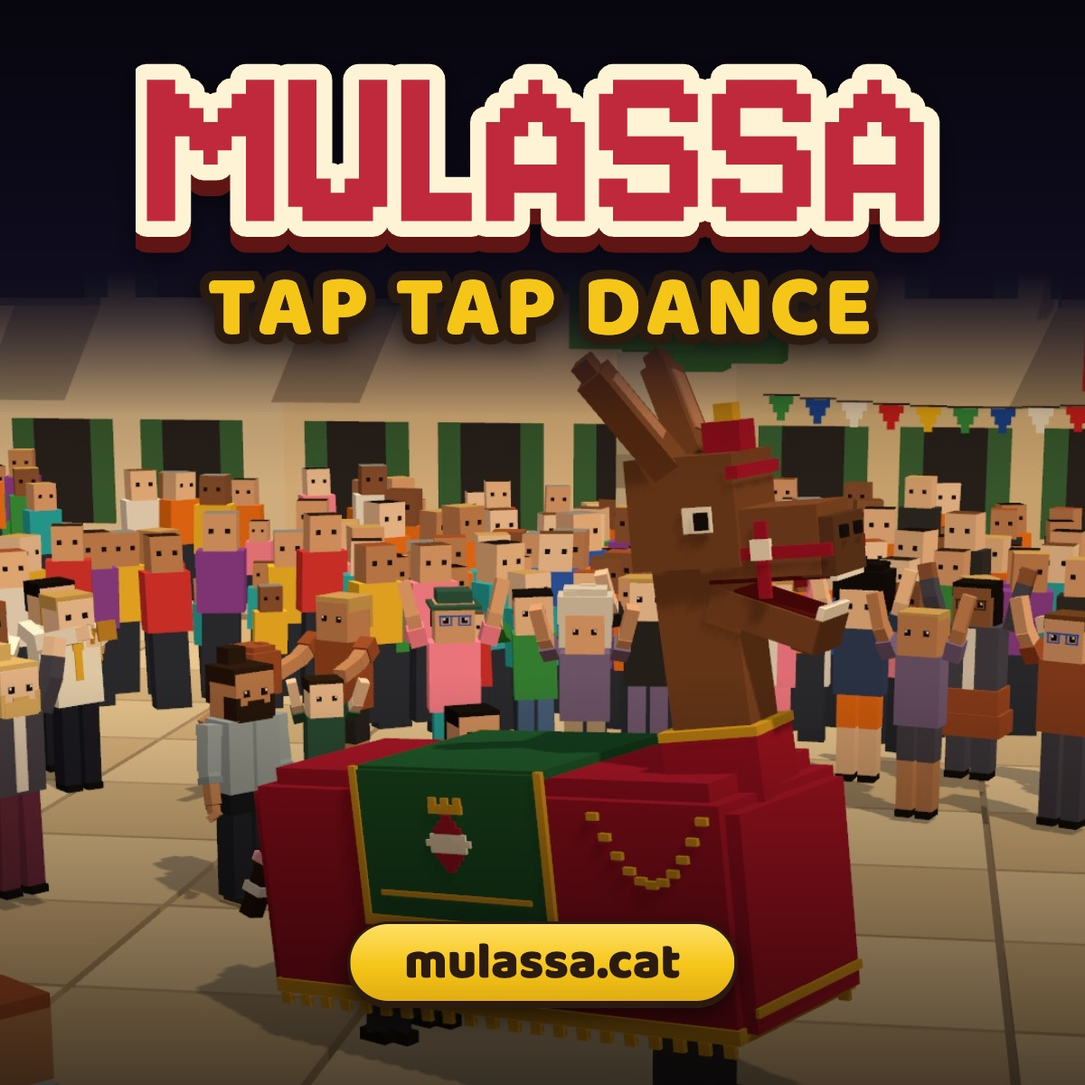
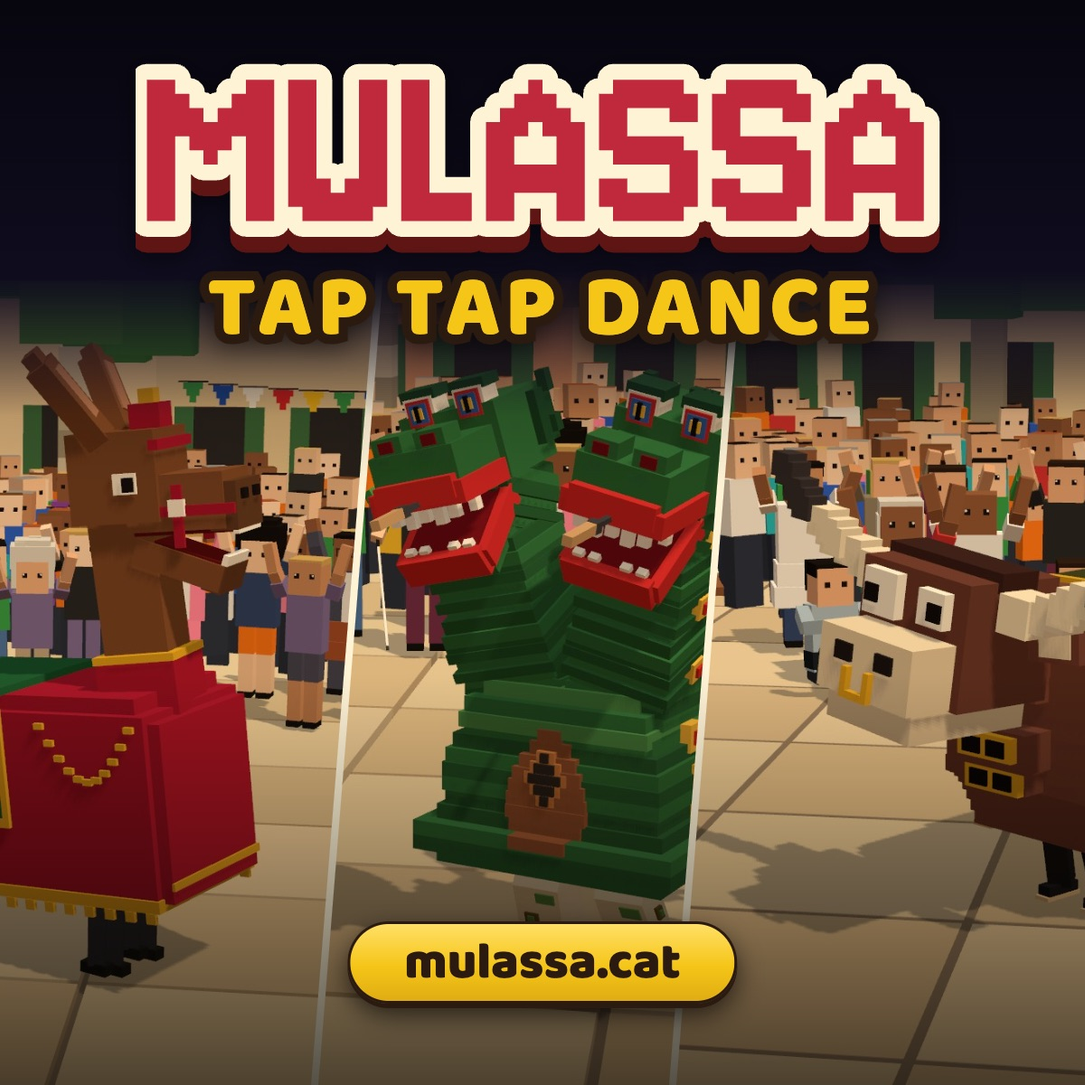
feat(seo): link previews with the three figures; the Bou in the site copy

diff --git a/index.html b/index.html
@@ -42,7 +42,7 @@ addEventListener('beforeinstallprompt', function (e) { window.__installPrompt = 
   window.__mulassaBoot = has.call(O, code) ? O[code] : null;
 })();
 </script>
-<script type="application/ld+json">{"@context":"https://schema.org","@graph":[{"@type":"WebSite","@id":"https://mulassa.cat/#site","name":"Mulassa Tap Tap Dance","url":"https://mulassa.cat/","inLanguage":"ca","publisher":{"@id":"https://mulassa.cat/#autor"}},{"@type":"Person","@id":"https://mulassa.cat/#autor","name":"Marc Güell Segarra","url":"https://ondori.dev","sameAs":["https://ondori.dev","https://github.com/mguellsegarra","https://github.com/mguellsegarra/mulassa-tap-tap-dance"],"contactPoint":{"@type":"ContactPoint","contactType":"general","email":"holi@mulassa.cat"}},{"@type":"VideoGame","name":"Mulassa Tap Tap Dance","url":"https://mulassa.cat/","description":"Fes ballar la Mulassa i el Drac de Valls al compàs de la música. Un joc de ritme gratuït que porta el bestiari festiu català al navegador.","inLanguage":"ca","genre":"Joc de ritme","applicationCategory":"GameApplication","operatingSystem":"Qualsevol navegador","isAccessibleForFree":true,"image":["https://mulassa.cat/og-1x1.jpg","https://mulassa.cat/og.jpg"],"author":{"@id":"https://mulassa.cat/#autor"},"isPartOf":{"@id":"https://mulassa.cat/#site"}}]}</script>
+<script type="application/ld+json">{"@context":"https://schema.org","@graph":[{"@type":"WebSite","@id":"https://mulassa.cat/#site","name":"Mulassa Tap Tap Dance","url":"https://mulassa.cat/","inLanguage":"ca","publisher":{"@id":"https://mulassa.cat/#autor"}},{"@type":"Person","@id":"https://mulassa.cat/#autor","name":"Marc Güell Segarra","url":"https://ondori.dev","sameAs":["https://ondori.dev","https://github.com/mguellsegarra","https://github.com/mguellsegarra/mulassa-tap-tap-dance"],"contactPoint":{"@type":"ContactPoint","contactType":"general","email":"holi@mulassa.cat"}},{"@type":"VideoGame","name":"Mulassa Tap Tap Dance","url":"https://mulassa.cat/","description":"Fes ballar la Mulassa, el Drac i el Bou de Valls al compàs de la música. Un joc de ritme gratuït que porta el bestiari festiu català al teu navegador.","inLanguage":"ca","genre":"Joc de ritme","applicationCategory":"GameApplication","operatingSystem":"Qualsevol navegador","isAccessibleForFree":true,"image":["https://mulassa.cat/og-1x1.jpg","https://mulassa.cat/og.jpg"],"author":{"@id":"https://mulassa.cat/#autor"},"isPartOf":{"@id":"https://mulassa.cat/#site"}}]}</script>
 <meta name="viewport" content="width=device-width, initial-scale=1, maximum-scale=1, user-scalable=no, viewport-fit=cover">
 <meta name="theme-color" content="#140c07">
 <meta name="apple-mobile-web-app-capable" content="yes">
@@ -53,26 +53,26 @@ addEventListener('beforeinstallprompt', function (e) { window.__installPrompt = 
 <link rel="icon" type="image/svg+xml" href="/favicon.svg">
 <link rel="icon" type="image/png" sizes="32x32" href="/favicon-32.png">
 <link rel="apple-touch-icon" href="/apple-touch-icon.png">
-<title>Mulassa Tap Tap Dance | La Mulassa i el Drac de Valls</title>
-<meta name="description" content="Fes ballar la Mulassa i el Drac de Valls al compàs de la música. Un joc de ritme gratuït que porta el bestiari festiu català al navegador.">
+<title>Mulassa Tap Tap Dance | La Mulassa, el Drac i el Bou de Valls</title>
+<meta name="description" content="Fes ballar la Mulassa, el Drac i el Bou de Valls al compàs de la música. Un joc de ritme gratuït que porta el bestiari festiu català al teu navegador.">
 <!-- Link previews (static, absolute URLs): public/og.jpg, 1200×630, made once from the game -->
 <meta name="robots" content="max-image-preview:large">
 <meta property="og:type" content="website">
 <meta property="og:site_name" content="mulassa.cat">
-<meta property="og:title" content="Mulassa Tap Tap Dance · Dos botons, segueix el ritme">
-<meta property="og:description" content="Fes ballar la Mulassa i el Drac de Valls al compàs de la música. Un joc de ritme gratuït que porta el bestiari festiu català al navegador.">
+<meta property="og:title" content="Mulassa Tap Tap Dance · Mulassa, Drac i Bou">
+<meta property="og:description" content="Fes ballar la Mulassa, el Drac i el Bou de Valls al compàs de la música. Un joc de ritme gratuït que porta el bestiari festiu català al teu navegador.">
 <meta property="og:url" content="https://mulassa.cat/">
 <meta property="og:image" content="https://mulassa.cat/og.jpg">
 <meta property="og:image:type" content="image/jpeg">
 <meta property="og:image:width" content="1200">
 <meta property="og:image:height" content="630">
-<meta property="og:image:alt" content="La Mulassa i el Drac de Valls amb el logotip de Mulassa Tap Tap Dance.">
+<meta property="og:image:alt" content="La Mulassa, el Drac i el Bou de Valls amb el logotip de Mulassa Tap Tap Dance.">
 <meta property="og:locale" content="ca_ES">
 <meta name="twitter:card" content="summary_large_image">
-<meta name="twitter:title" content="Mulassa Tap Tap Dance · Dos botons, segueix el ritme">
-<meta name="twitter:description" content="Fes ballar la Mulassa i el Drac de Valls al compàs de la música. Un joc de ritme gratuït que porta el bestiari festiu català al navegador.">
+<meta name="twitter:title" content="Mulassa Tap Tap Dance · Mulassa, Drac i Bou">
+<meta name="twitter:description" content="Fes ballar la Mulassa, el Drac i el Bou de Valls al compàs de la música. Un joc de ritme gratuït que porta el bestiari festiu català al teu navegador.">
 <meta name="twitter:image" content="https://mulassa.cat/og.jpg">
-<meta name="twitter:image:alt" content="La Mulassa i el Drac de Valls amb el logotip de Mulassa Tap Tap Dance.">
+<meta name="twitter:image:alt" content="La Mulassa, el Drac i el Bou de Valls amb el logotip de Mulassa Tap Tap Dance.">
 <link rel="preload" href="/fonts/baloo-2-latin.woff2" as="font" type="font/woff2" crossorigin>
 <link rel="preload" href="/fonts/jersey-10-latin.woff2" as="font" type="font/woff2" crossorigin>
 <style>
@@ -208,7 +208,7 @@ addEventListener('beforeinstallprompt', function (e) { window.__installPrompt = 
 <link rel="stylesheet" href="/src/styles/profile.css">
 </head>
 <body aria-busy="true">
-<div class="sr-only"><h1>Mulassa Tap Tap Dance</h1><p>Joc de ritme gratuït en català per fer ballar figures del bestiari festiu dels Països Catalans, com la Mulassa i el Drac de Valls, tocant dos botons al compàs de la música. Projecte de codi obert. <a href="/projecte/" tabindex="-1">Sobre el projecte</a>. Idea i desenvolupament: Marc Güell Segarra, <a tabindex="-1" href="https://ondori.dev">ondori.dev</a>. <a tabindex="-1" href="/projecte/#autoria-i-credits">Crèdits</a>. Contacte: <a tabindex="-1" href="mailto:holi@mulassa.cat">holi@mulassa.cat</a>.</p></div>
+<div class="sr-only"><h1>Mulassa Tap Tap Dance</h1><p>Joc de ritme gratuït en català per fer ballar figures del bestiari festiu dels Països Catalans, com la Mulassa, el Drac i el Bou de Valls, tocant dos botons al compàs de la música. Projecte de codi obert. <a href="/projecte/" tabindex="-1">Sobre el projecte</a>. Idea i desenvolupament: Marc Güell Segarra, <a tabindex="-1" href="https://ondori.dev">ondori.dev</a>. <a tabindex="-1" href="/projecte/#autoria-i-credits">Crèdits</a>. Contacte: <a tabindex="-1" href="mailto:holi@mulassa.cat">holi@mulassa.cat</a>.</p></div>
 <div id="loader" class="page" role="status" aria-live="polite"><div class="loader-box"><span class="mula-spinner"><div class="mula-load" aria-hidden="true"><div class="ml-fig"><div class="ml-ground"><svg viewBox="0 0 202 18"><path d="M0 4H202" fill="none" stroke="#866846" stroke-width="1.2" opacity=".6"/></svg><div class="ml-road"><svg viewBox="0 0 202 18"><g fill="none" stroke="#a78355" stroke-width="1.2" stroke-linecap="round" opacity=".45"><path d="M0 10H270" stroke-dasharray="18 12 4 12 6 12"/><path d="M30 4l3-3h4l3 3m54 0l3-3h4l3 3m54 0l3-3h4l3 3m54 0l3-3h4l3 3"/></g></svg></div></div><div class="ml-dust" style="animation-delay:0s"><svg viewBox="0 0 220 168"><g transform="translate(43 145)"><path d="M-3 0c-5 0-8-3-7-6 1-3 4-4 6-3 0-6 7-7 9-3 5-2 9 1 8 5 3 0 4 3 2 5C10 1 3 1-3 0z" fill="#9b7951"/><path d="M-7-6q2-5 6-2m3-5q4-2 6 2" fill="none" stroke="#c6a16b" stroke-width="1.2" stroke-linecap="round" opacity=".5"/><path d="M-13-2l-2-1m-1-5-1-1" fill="none" stroke="#a78355" stroke-width="1.6" stroke-linecap="round"/></g></svg></div><div class="ml-dust" style="animation-delay:-0.24s"><svg viewBox="0 0 220 168"><g transform="translate(43 145)"><path d="M-3 0c-5 0-8-3-7-6 1-3 4-4 6-3 0-6 7-7 9-3 5-2 9 1 8 5 3 0 4 3 2 5C10 1 3 1-3 0z" fill="#9b7951"/><path d="M-7-6q2-5 6-2m3-5q4-2 6 2" fill="none" stroke="#c6a16b" stroke-width="1.2" stroke-linecap="round" opacity=".5"/><path d="M-13-2l-2-1m-1-5-1-1" fill="none" stroke="#a78355" stroke-width="1.6" stroke-linecap="round"/></g></svg></div><svg viewBox="0 0 220 168"><ellipse cx="100" cy="147" rx="72" ry="4.5" fill="#000" opacity=".35"/></svg><div class="ml-leg" style="--step:0s;transform-origin:27.273% 67.262%"><svg viewBox="0 0 220 168"><g transform="translate(60 113)"><rect x="-3.5" y="0" width="7" height="18" rx="3" fill="#36303a"/></g></svg><div class="ml-shin" style="transform-origin:27.273% 76.786%"><svg viewBox="0 0 220 168"><g transform="translate(60 129)"><rect x="-3.5" y="-2" width="7" height="17" rx="2" fill="#36303a"/><rect x="-3.5" y="10" width="7" height="4" fill="#aaa18d"/><path d="M-4 13h7l6 2q2 1 1 4H-4z" fill="#241b1c"/><path d="M-4 18h14" stroke="#aaa18d" stroke-width="1.5" stroke-linecap="round"/></g></svg></div></div><div class="ml-leg" style="--step:-0.24s;transform-origin:31.818% 67.262%"><svg viewBox="0 0 220 168"><g transform="translate(70 113)"><rect x="-3.5" y="0" width="7" height="18" rx="3" fill="#36303a"/></g></svg><div class="ml-shin" style="transform-origin:31.818% 76.786%"><svg viewBox="0 0 220 168"><g transform="translate(70 129)"><rect x="-3.5" y="-2" width="7" height="17" rx="2" fill="#36303a"/><rect x="-3.5" y="10" width="7" height="4" fill="#aaa18d"/><path d="M-4 13h7l6 2q2 1 1 4H-4z" fill="#241b1c"/><path d="M-4 18h14" stroke="#aaa18d" stroke-width="1.5" stroke-linecap="round"/></g></svg></div></div><div class="ml-leg" style="--step:-0.04s;transform-origin:61.818% 67.262%"><svg viewBox="0 0 220 168"><g transform="translate(136 113)"><rect x="-3.5" y="0" width="7" height="18" rx="3" fill="#36303a"/></g></svg><div class="ml-shin" style="transform-origin:61.818% 76.786%"><svg viewBox="0 0 220 168"><g transform="translate(136 129)"><rect x="-3.5" y="-2" width="7" height="17" rx="2" fill="#36303a"/><rect x="-3.5" y="10" width="7" height="4" fill="#aaa18d"/><path d="M-4 13h7l6 2q2 1 1 4H-4z" fill="#241b1c"/><path d="M-4 18h14" stroke="#aaa18d" stroke-width="1.5" stroke-linecap="round"/></g></svg></div></div><div class="ml-leg" style="--step:-0.28s;transform-origin:66.364% 67.262%"><svg viewBox="0 0 220 168"><g transform="translate(146 113)"><rect x="-3.5" y="0" width="7" height="18" rx="3" fill="#36303a"/></g></svg><div class="ml-shin" style="transform-origin:66.364% 76.786%"><svg viewBox="0 0 220 168"><g transform="translate(146 129)"><rect x="-3.5" y="-2" width="7" height="17" rx="2" fill="#36303a"/><rect x="-3.5" y="10" width="7" height="4" fill="#aaa18d"/><path d="M-4 13h7l6 2q2 1 1 4H-4z" fill="#241b1c"/><path d="M-4 18h14" stroke="#aaa18d" stroke-width="1.5" stroke-linecap="round"/></g></svg></div></div><div class="ml-leg" style="--step:-0.02s;transform-origin:24.091% 67.262%"><svg viewBox="0 0 220 168"><g transform="translate(53 113)"><rect x="-3.5" y="0" width="7" height="18" rx="3" fill="#51454e"/></g></svg><div class="ml-shin" style="transform-origin:24.091% 76.786%"><svg viewBox="0 0 220 168"><g transform="translate(53 129)"><rect x="-3.5" y="-2" width="7" height="17" rx="2" fill="#51454e"/><rect x="-3.5" y="10" width="7" height="4" fill="#f4efe4"/><path d="M-4 13h7l6 2q2 1 1 4H-4z" fill="#241b1c"/><path d="M-4 18h14" stroke="#f4efe4" stroke-width="1.5" stroke-linecap="round"/></g></svg></div></div><div class="ml-leg" style="--step:-0.26s;transform-origin:29.545% 67.262%"><svg viewBox="0 0 220 168"><g transform="translate(65 113)"><rect x="-3.5" y="0" width="7" height="18" rx="3" fill="#51454e"/></g></svg><div class="ml-shin" style="transform-origin:29.545% 76.786%"><svg viewBox="0 0 220 168"><g transform="translate(65 129)"><rect x="-3.5" y="-2" width="7" height="17" rx="2" fill="#51454e"/><rect x="-3.5" y="10" width="7" height="4" fill="#f4efe4"/><path d="M-4 13h7l6 2q2 1 1 4H-4z" fill="#241b1c"/><path d="M-4 18h14" stroke="#f4efe4" stroke-width="1.5" stroke-linecap="round"/></g></svg></div></div><div class="ml-leg" style="--step:-0.06s;transform-origin:58.182% 67.262%"><svg viewBox="0 0 220 168"><g transform="translate(128 113)"><rect x="-3.5" y="0" width="7" height="18" rx="3" fill="#51454e"/></g></svg><div class="ml-shin" style="transform-origin:58.182% 76.786%"><svg viewBox="0 0 220 168"><g transform="translate(128 129)"><rect x="-3.5" y="-2" width="7" height="17" rx="2" fill="#51454e"/><rect x="-3.5" y="10" width="7" height="4" fill="#f4efe4"/><path d="M-4 13h7l6 2q2 1 1 4H-4z" fill="#241b1c"/><path d="M-4 18h14" stroke="#f4efe4" stroke-width="1.5" stroke-linecap="round"/></g></svg></div></div><div class="ml-leg" style="--step:-0.3s;transform-origin:63.636% 67.262%"><svg viewBox="0 0 220 168"><g transform="translate(140 113)"><rect x="-3.5" y="0" width="7" height="18" rx="3" fill="#51454e"/></g></svg><div class="ml-shin" style="transform-origin:63.636% 76.786%"><svg viewBox="0 0 220 168"><g transform="translate(140 129)"><rect x="-3.5" y="-2" width="7" height="17" rx="2" fill="#51454e"/><rect x="-3.5" y="10" width="7" height="4" fill="#f4efe4"/><path d="M-4 13h7l6 2q2 1 1 4H-4z" fill="#241b1c"/><path d="M-4 18h14" stroke="#f4efe4" stroke-width="1.5" stroke-linecap="round"/></g></svg></div></div><div class="ml-bob"><div class="ml-tail"><svg viewBox="0 0 220 168"><path d="M41 74q-9 12-7 36l7 1q-1-20 6-34z" fill="#4e2e1a"/><path d="M33 86h10M33 99h10" stroke="#f4efe4" stroke-width="3"/><path d="M33 92.5h10" stroke="#ffb3c7" stroke-width="3"/></svg></div><div class="ml-neck"><div class="ml-nod"><svg viewBox="0 0 220 168"><path d="M139 74 150 33q3-8 12-6l3 3-7 44z" fill="#7a4a2b"/><path d="M145 68 152 34" stroke="#4e2e1a" stroke-width="4" stroke-linecap="round"/></svg><div class="ml-sweat"><svg viewBox="0 0 220 168"><g fill="#fff3d6"><path d="M133 28q-7-3-7 1t7-1z"/><path d="M132 19q-5-5-7-2t7 2z"/></g></svg></div><div class="ml-ear ml-e2"><svg viewBox="0 0 220 168"><path d="M156 18.5Q154.6 5 161.4-1.6 165 5.5 161.2 18z" fill="#4e2e1a"/></svg></div><svg viewBox="0 0 220 168"><path d="M159 38 187 42.5 160 43.5z" fill="#5a1010"/><path d="M164 43.2Q172 41.2 182 42.3L181 42.9Q172 43 164 43.4z" fill="#e58aa6"/></svg><div class="ml-jaw"><svg viewBox="0 0 220 168"><path d="M158 37.5 186 42q2 5-3 6.5l-24-4z" fill="#7a4a2b"/><path d="M178 42.5l8 1.2q1 3.6-3 4.6l-5-.8z" fill="#5d3a24"/><path d="M178.5 42.6l7 1" stroke="#f4efe4" stroke-width="1.4"/></svg></div><svg viewBox="0 0 220 168"><circle cx="158" cy="26" r="11" fill="#7a4a2b"/><path d="M152 19 183 28q7 2 6.5 9l-1 4-31-4z" fill="#7a4a2b"/><path d="M178 29.5q10 2 10.5 7.5l-1 4-9.5-1.5z" fill="#5d3a24"/><path d="M178 40.4l9 1.4" stroke="#f4efe4" stroke-width="1.4"/><circle cx="185" cy="33" r="1.3" fill="#2a1a10"/><circle cx="160" cy="24.5" r="4.2" fill="#f4efe4"/><circle cx="162" cy="25" r="2.2" fill="#2a1a10"/><g fill="none" stroke="#c0912e" stroke-width="1.4" stroke-linecap="round" stroke-linejoin="round"><path d="M151.5 19.5C156 15.8 162 15.6 165.6 18.9M151.5 19.5 154.6 35.8 169.8 37.8 175.8 27.2"/></g><circle cx="151.5" cy="19.5" r="2.3" fill="#c8283a"/><circle cx="151.5" cy="19.5" r="0.8" fill="#f2c14e"/><circle cx="175.8" cy="27.2" r="1.3" fill="#c8283a"/><g class="ml-sad"><path d="M156.3 25a3.7 3.7 0 0 1 7.4 0z" fill="#7a4a2b"/><path d="M156 23.6l7.5-1.4" stroke="#2a1a10" stroke-width="1.1" stroke-linecap="round"/><path class="ml-tear" d="M161 28.5q-8 7 0 11 8-4 0-11z" fill="#9bdcff"/><path class="ml-tear ml-tear-late" d="M161 28.5q-8 7 0 11 8-4 0-11z" fill="#9bdcff"/></g></svg><div class="ml-ear"><svg viewBox="0 0 220 168"><path d="M148.5 18.5Q140 8 142.6-2.2 150 2 153.5 16z" fill="#7a4a2b"/><path d="M148.6 14.6Q144.2 8 144.6 1.6 148.6 5 150.6 13z" fill="#b07a5a"/></svg></div><div class="ml-clac"><svg viewBox="0 0 220 168"><g stroke="#f5c518" stroke-width="2" stroke-linecap="round"><path d="M192 38l5-3M193 45h6M191 51l4 3"/></g></svg></div></div></div><svg viewBox="0 0 220 168"><rect x="40" y="66" width="118" height="52" rx="7" fill="#a3182f"/><path d="M40 103h118v8q0 7-7 7H47q-7 0-7-7z" fill="#7c1024"/><path d="M46 68.5h106" stroke="#c43752" stroke-width="2" stroke-linecap="round"/><path d="M137 64h25v10q0 3-3 3h-19q-3 0-3-3z" fill="#a3182f"/><rect x="136" y="61" width="27" height="4" rx="1.5" fill="#d9a521"/><path d="M155 72q-10 26-24 2" fill="none" stroke="#d9a521" stroke-width="2.4" stroke-dasharray=".1 3.6" stroke-linecap="round"/><rect x="76" y="61" width="52" height="45" rx="3" fill="#1f5c33" stroke="#d9a521" stroke-width="2.5"/><path d="M83 97h38" stroke="#d9a521" stroke-width="1.5"/><path d="M96 70.5h16v3H96zM96 70.5v-3h3v3M102.5 70.5v-3h3v3M109 70.5v-3h3v3" fill="#d9a521" stroke="#d9a521" stroke-width=".6"/><path d="M104 75 113 83 104 91 95 83z" fill="#a3182f" stroke="#2a1a10" stroke-width=".8"/><path d="M97.3 81h13.4l2.2 2-2.2 2H97.3l-2.2-2z" fill="#f4efe4"/><rect x="38" y="116" width="122" height="5" rx="2" fill="#d9a521"/><path d="M41 123.5h117" stroke="#d9a521" stroke-width="5" stroke-dasharray="2 2.4"/></svg></div></div></div></span><span id="loader-text"><!-- i18n:boot:label -->Avisant la brigada…<!-- i18n:boot:end --></span></div></div>
 <script id="loader-first-joke">/* The first loading line, picked before the first paint: one not seen yet on this device (the same memory and list as src/ui/loader.js jokes(); both come from the boot catalogue through tools/deploy/gen-boot.mjs), so no visit always opens the same way. */
 (function () { var B = window.__mulassaBoot, L = (B && B.jokes) || /* i18n:boot:jokes */["Avisant la brigada…","Esperant que obri el Maitanca…","Trucant a la grua…","Validant el tiquet de la zona blava…","Encenent el foc amb redoltes…","Remenant la salsa de calçots…","Pujant al campanar a mirar la plaça…","Esquivant les caques de gos…","Planxant les estelades…","Posant una espelmeta a la Mare de Déu de la Candela…","Posant-li les arracades a l’Alcaldessa…","Apartant les paneroles…","Esperant l’entrepà del Safareig…","Afinant-me els cascavells…","Despertant el Drac…","Aguantant les façanes del Barri Antic perquè no caiguin…","Demanant al Basilisc que no em miri així…","Comptant els dies que falten per a les Decennals…","Encarregant un ram de flors a l’Heura per conquistar el Bou…","Filtrant a El Vallenc que l’Àliga i el Drac festegen…"]/* i18n:boot:end */, k = 'loader-jokes-seen', s = [], t = document.getElementById('loader-text');

diff --git a/tools/social/og/build.py b/tools/social/og/build.py
@@ -1,4 +1,5 @@
-# Link-preview images (og:image) of the mini-games' pages: public/og-jocs.jpg (/jocs/) and public/og-pop.jpg (/pop/).
+# Link-preview images (og:image): the game's, public/og.jpg (the three figures, 16/11/2026), and the mini-games' pages'
+# public/og-jocs.jpg (/jocs/) and public/og-pop.jpg (/pop/).
 # One template (the owner's pick, 11 Nov 2026): the game's own art full bleed, the MULASSA lettering big on top with the page's
 # word under it (GAMES / POP, as the pages' logos), the gold «mulassa.cat» pill at the foot. No other text: the page's
 # og:title / og:description carry the words. A new game's page = one more entry in PAGES.
@@ -19,6 +20,8 @@ body{{position:relative;font-family:'Baloo 2',system-ui,sans-serif}}
 .bg{{position:absolute;inset:0;background-size:cover}}
 .split .a{{clip-path:polygon(0 0,58% 0,42% 100%,0 100%)}}.split .b{{clip-path:polygon(58% 0,100% 0,100% 100%,42% 100%)}}
 .cut{{position:absolute;inset:0;background:linear-gradient(105deg,transparent 49.6%,#fff3d6 49.6%,#fff3d6 50.4%,transparent 50.4%)}}
+.tri .a{{clip-path:polygon(0 0,37% 0,29% 100%,0 100%)}}.tri .b{{clip-path:polygon(37% 0,70% 0,62% 100%,29% 100%)}}.tri .c{{clip-path:polygon(70% 0,100% 0,100% 100%,62% 100%)}}
+.tri .bg{{background-repeat:no-repeat}}
 .shade{{position:absolute;inset:0;background:linear-gradient(#000a,#0000 45%,#0000 62%,#000a)}}
 .logo{{position:absolute;top:34px;left:0;right:0;display:flex;flex-direction:column;align-items:center}}
 .logo svg{{display:block;width:520px;height:auto;filter:drop-shadow(0 6px 14px #0008)}}
@@ -30,14 +33,22 @@ body{{position:relative;font-family:'Baloo 2',system-ui,sans-serif}}
 # the pages' own lettering (jocs/index.html, pop/index.html)
 LOGO = """<svg viewBox="0 -4 308.6 80" text-anchor="middle" stroke-linejoin="round"><g font-family="'Jersey 10'" font-size="100" stroke-width="12"><text x="154.3" y="66.6" textLength="300" lengthAdjust="spacingAndGlyphs" fill="#5e1514" stroke="#5e1514" style="paint-order:stroke">MULASSA</text><text x="154.3" y="60.6" textLength="300" lengthAdjust="spacingAndGlyphs" fill="#c0283c" stroke="#fff3d6" style="paint-order:stroke">MULASSA</text></g></svg>"""
 
+# the cream lines between the slices (the same cut as og-jocs.jpg's, twice)
+CUT2 = '<svg style="position:absolute;inset:0;width:100%;height:100%" viewBox="0 0 100 100" preserveAspectRatio="none"><g stroke="#fff3d6" stroke-width="8" vector-effect="non-scaling-stroke"><line x1="37" y1="0" x2="29" y2="100" vector-effect="non-scaling-stroke"/><line x1="70" y1="0" x2="62" y2="100" vector-effect="non-scaling-stroke"/></g></svg>'
+def tri(size, xs, ys):  # the three figures' share photos (public/share/), each on its own slice; xs, ys: each photo's top left
+    # (a photo set lower leaves the night sky's colour above it, under the logo)
+    figs = ['mulassa-valls', 'drac-valls', 'bou-tradicional-valls']
+    return '<div class="tri">' + ''.join(f'<div class="bg {k}" style="background:#15112a url({P}/share/{f}.jpg) no-repeat {x}px {y}px/auto {size}px"></div>'
+                                         for k, f, x, y in zip('abc', figs, xs, ys)) + '</div>' + CUT2
 PAGES = {  # name → (art, word): the art is the games menu's own stills (public/jocs/menu/)
+    'og': (tri(760, (-393, 65, 605), (0, 77, 0)), 'TAP TAP DANCE'),  # each face in its slice's middle, the Drac's under the logo
     'og-jocs': (f"""<div class="split"><div class="bg a" style="background-image:url({P}/jocs/menu/video/tap.jpg);background-position:30% 60%"></div><div class="bg b" style="background-image:url({P}/jocs/menu/video/pop.jpg);background-position:85% 50%"></div></div><div class="cut"></div>""", 'GAMES'),
     'og-pop': (f"""<div class="bg" style="background-image:url({P}/jocs/menu/hero/pop.jpg);background-position:70% 50%"></div>""", 'POP'),
 }
 # Google's result thumbnail is square, cut from the middle of og:image: each page also names a 1200×1200 one in its JSON-LD
-# image (tap: the main game, whose 1200×630 og.jpg stays the one-off capture)
+# image
 SQUARE = {
-    'og-1x1': (f"""<div class="bg" style="background:#15112a url({P}/share/mulassa-valls.jpg) no-repeat 40% 300px/auto 1100px"></div><div class="bg" style="background:linear-gradient(#15112a 300px,#15112a00 460px)"></div>""", 'TAP TAP DANCE'),  # the Mulassa under the logo, not behind it
+    'og-1x1': (tri(900, (-503, -35, 531), (310, 300, 300)) + '<div class="bg" style="background:linear-gradient(#15112a 300px,#15112a00 460px)"></div>', 'TAP TAP DANCE'),  # under the logo, not behind it
     'og-jocs-1x1': PAGES['og-jocs'],
     'og-pop-1x1': (f"""<div class="bg" style="background-image:url({P}/jocs/menu/hero/pop.jpg);background-position:48% 50%"></div>""", 'POP'),
 }
@@ -58,6 +69,6 @@ with tempfile.TemporaryDirectory() as profile:
         # headless: never a window over the owner's (AGENTS.md); the fonts load from files, the budget lets them settle
         subprocess.run([CHROME, '--headless=new', '--hide-scrollbars', f'--user-data-dir={profile}', f'--window-size=1200,{h}',
                         '--virtual-time-budget=3000', f'--screenshot={png}', (OUT / f'{name}.html').as_uri()], check=True, capture_output=True)
-        # shortcut: sips is macOS's; on another system convert with any tool at JPEG quality 85
-        subprocess.run(['sips', '-s', 'format', 'jpeg', '-s', 'formatOptions', '85', str(png), '--out', str(ROOT / 'public' / f'{name}.jpg')], check=True, capture_output=True)
+        # shortcut: sips is macOS's (the square at 80: the three figures' at 85 went past 300 KB); on another system convert with any tool at JPEG quality 85
+        subprocess.run(['sips', '-s', 'format', 'jpeg', '-s', 'formatOptions', '80' if h == 1200 else '85', str(png), '--out', str(ROOT / 'public' / f'{name}.jpg')], check=True, capture_output=True)
         print(f'public/{name}.jpg')

diff --git a/README.md b/README.md
@@ -20,7 +20,7 @@
 
 Mulassa Tap Tap Dance és un joc de ritme gratuït i en català per fer ballar figures del bestiari festiu dels Països Catalans. Marques el ritme de la música amb dos botons mentre la figura balla. Les melodies són les de les figures, però he agafat la llibertat de portar-les al terreny dels videojocs: més desenfadades, amb una estètica de blocs i amb una sorpresa amagada a cada ball.
 
-Va començar amb la Mulassa de Valls, que forma part del Seguici Cerimonial de la ciutat, i s'ha anat obrint a més figures. Ara hi ha la Mulassa i el Drac, el Bou Tradicional és a punt de sortir i la idea és que s'hi vagin afegint bèsties d'arreu dels Països Catalans. Es pot jugar en 16 llengües, perquè hi pugui jugar qui no parla català.
+Va començar amb la Mulassa de Valls, que forma part del Seguici Cerimonial de la ciutat, i s'ha anat obrint a més figures. Ara hi ha la Mulassa, el Drac i el Bou Tradicional de Valls, de la Unió Anelles de la Flama, i la idea és que s'hi vagin afegint bèsties d'arreu dels Països Catalans. Es pot jugar en 16 llengües, perquè hi pugui jugar qui no parla català.
 
 <p align="center"><img src=".github/readme/partida.webp" alt="Una partida en marxa: la pista de notes a dalt, la Mulassa ballant a la plaça i confeti en encertar una GUAPA" width="100%"></p>
 
@@ -183,7 +183,7 @@ Pots obrir una issue per avisar d'un problema o proposar un canvi, o enviar un p
 
 ### Afegeix la teva figura
 
-El codi és obert i el joc vol créixer amb bèsties de tot arreu. Si vols veure un gegant, una àliga o qualsevol figura del teu poble ballant a la plaça, la pots portar al joc. Ara hi ha la Mulassa i el Drac, i el Bou Tradicional arriba aviat. Cada figura té el seu model vòxel, la seva música, el seu ball, la seva colla, les seves paraules als botons i la seva festa.
+El codi és obert i el joc vol créixer amb bèsties de tot arreu. Si vols veure un gegant, una àliga o qualsevol figura del teu poble ballant a la plaça, la pots portar al joc. Ara hi ha la Mulassa, el Drac i el Bou Tradicional de Valls. Cada figura té el seu model vòxel, la seva música, el seu ball, la seva colla, les seves paraules als botons i la seva festa.
 
 La guia [docs/figures/nova-figura.md](docs/figures/nova-figura.md) explica:
 - què has d'aportar abans de començar (vídeos sencers del ball, partitura, fotos de la colla);
